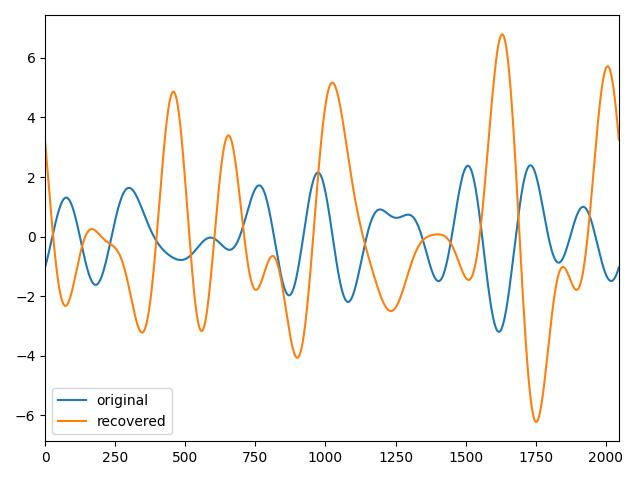
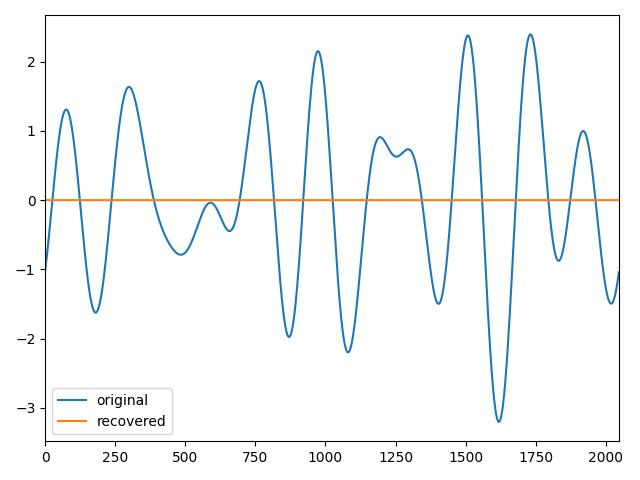
6

diff --git a/Bandlimited_signal_recovery_from_zero-crossings/main copy.py b/Bandlimited_signal_recovery_from_zero-crossings/main copy.py
@@ -1,4 +1,3 @@
-'''
 import numpy as np
 import cvxpy as cvx
 import matplotlib.pyplot as plt
@@ -31,56 +30,3 @@ plt.tight_layout()
 plt.savefig('./Bandlimited_signal_recovery_from_zero-crossings/outputs/original_and_recovered_y_signal.jpg')
 plt.show()
 # 绘制原始信号y和估计信号y_hat的图像，以比较二者。使用matplotlib.pyplot绘制折线图，设置图例和x轴范围。
-'''
-import numpy as np
-import matplotlib.pyplot as plt
-from scipy.optimize import minimize
-# 导入用户上传的数据文件
-from module.zero_crossings_data import *
-
-# 构造矩阵A，其列为带限的正弦和余弦波
-C = np.zeros((n, B))
-S = np.zeros((n, B))
-for j in range(B):
-    C[:, j] = np.cos(2 * np.pi * (f_min + j) * np.arange(1, n + 1) / n)
-    S[:, j] = np.sin(2 * np.pi * (f_min + j) * np.arange(1, n + 1) / n)
-A = np.hstack((C, S))
-
-# 定义优化问题的目标函数：最小化A*x的二范数
-def objective(x):
-    return np.linalg.norm(np.dot(A, x), 2)
-
-# 定义符号约束函数
-def sign_constraints(x):
-    return np.multiply(s, np.dot(A, x))
-
-# 定义L1范数规范化条件
-def l1_norm_constraint(x):
-    return np.sum(np.abs(np.dot(A, x))) - n
-
-# 初始化变量
-x0 = np.random.randn(2 * B)
-
-# 设置约束条件
-cons = ({'type': 'ineq', 'fun': sign_constraints},  # 符号约束
-        {'type': 'eq', 'fun': l1_norm_constraint})  # L1范数规范化
-
-# 使用scipy.optimize的minimize函数求解
-result = minimize(objective, x0, constraints=cons)
-
-# 恢复信号
-y_hat = np.dot(A, result.x)
-
-# 计算恢复误差
-recovery_error = np.linalg.norm(y - y_hat) / np.linalg.norm(y)
-print(f'恢复误差: {recovery_error}')
-
-# 绘制原始信号和恢复信号
-plt.figure()
-plt.plot(np.arange(n), y, label='original')
-plt.plot(np.arange(n), y_hat, label='recovered')
-plt.xlim([0, n])
-plt.legend(loc='lower left')
-plt.tight_layout()
-plt.savefig('./Bandlimited_signal_recovery_from_zero-crossings/outputs/original_and_recovered_y_signal2.jpg')
-plt.show()
